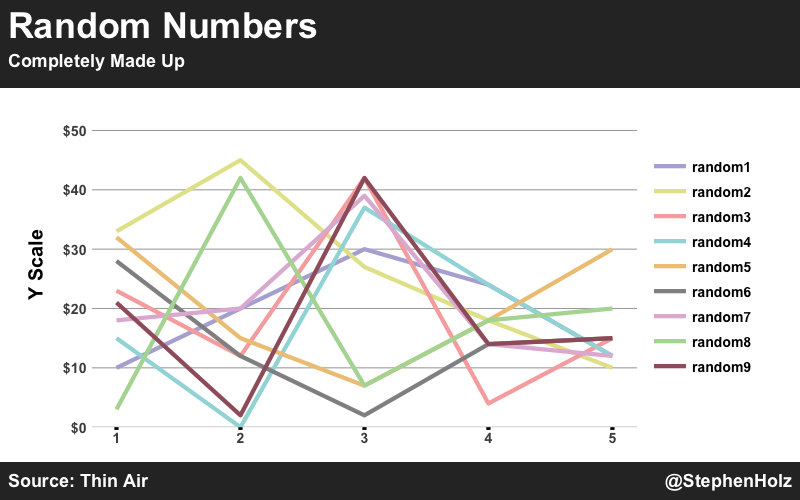
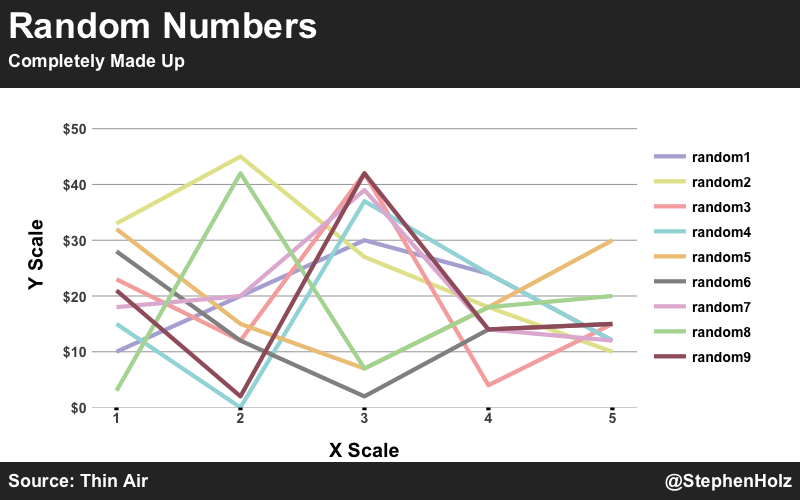
Add Scatter Example to COCLIBRARY

diff --git a/_posts/2016-05-08-COCLIBRARY.md b/_posts/2016-05-08-COCLIBRARY.md
@@ -28,9 +28,7 @@ Pass data in "long" format. Use melt from the reshape2 package to help wrangle i
 {% highlight R %}
 
 library(COCLIBRARY)
-library(ggplot2)
 library(reshape2)
-library(grid)
 
 df <- NULL
 df$day <- c(1,2,3,4,5)
@@ -55,7 +53,7 @@ basicMultiline(data = dfmelt,
                cite = "Source: Thin Air",
                author = "@StephenHolz",
                ylabel = "Y Scale",
-               xlabel = "",
+               xlabel = "X Scale",
                ylimits = c(0,55),
                ybreaks = c(0, 10, 20, 30, 40, 50),
                ylabels = c("$0","$10","$20","$30","$40","$50"),
@@ -65,5 +63,40 @@ basicMultiline(data = dfmelt,
 {% endhighlight %}
 
 <figure>
-  <a href="/images/testnumeric.png"><img src="/images/testnumeric.png" alt=""></a>
+  <a href="/images/testmultiline.png"><img src="/images/testmultiline.png" alt=""></a>
+</figure>
+
+<h3>basicScatter Example</h3>
+
+{% highlight R %}
+
+library(COCLIBRARY)
+
+df <- NULL
+df$group <- c("group1","group1","group1","group2","group2","group2","group3","group3","group3")
+df$random1 <-c(10,20,30,24,12,23,12,42,4)
+df$random2 <-c(33,45,27,18,10,32,15,7,18)
+
+df <- data.frame(df)
+
+basicScatter(data = df,
+               xvar = "random1",
+               yvar = "random2",
+               colourvar = "group",
+               title = "Random Numbers",
+               subtitle = "Completely Made Up",
+               cite = "Source: Thin Air",
+               author = "@StephenHolz",
+               ylabel = "Y Scale",
+               xlabel = "X Scale",
+               ylimits = c(0,55),
+               ybreaks = c(0, 10, 20, 30, 40, 50),
+               ylabels = c("0","10","20","30","40","50"),
+               path = "/Volumes/Storage/testscatter.png"
+)
+
+{% endhighlight %}
+
+<figure>
+  <a href="/images/testscatter.png"><img src="/images/testscatter.png" alt=""></a>
 </figure>
